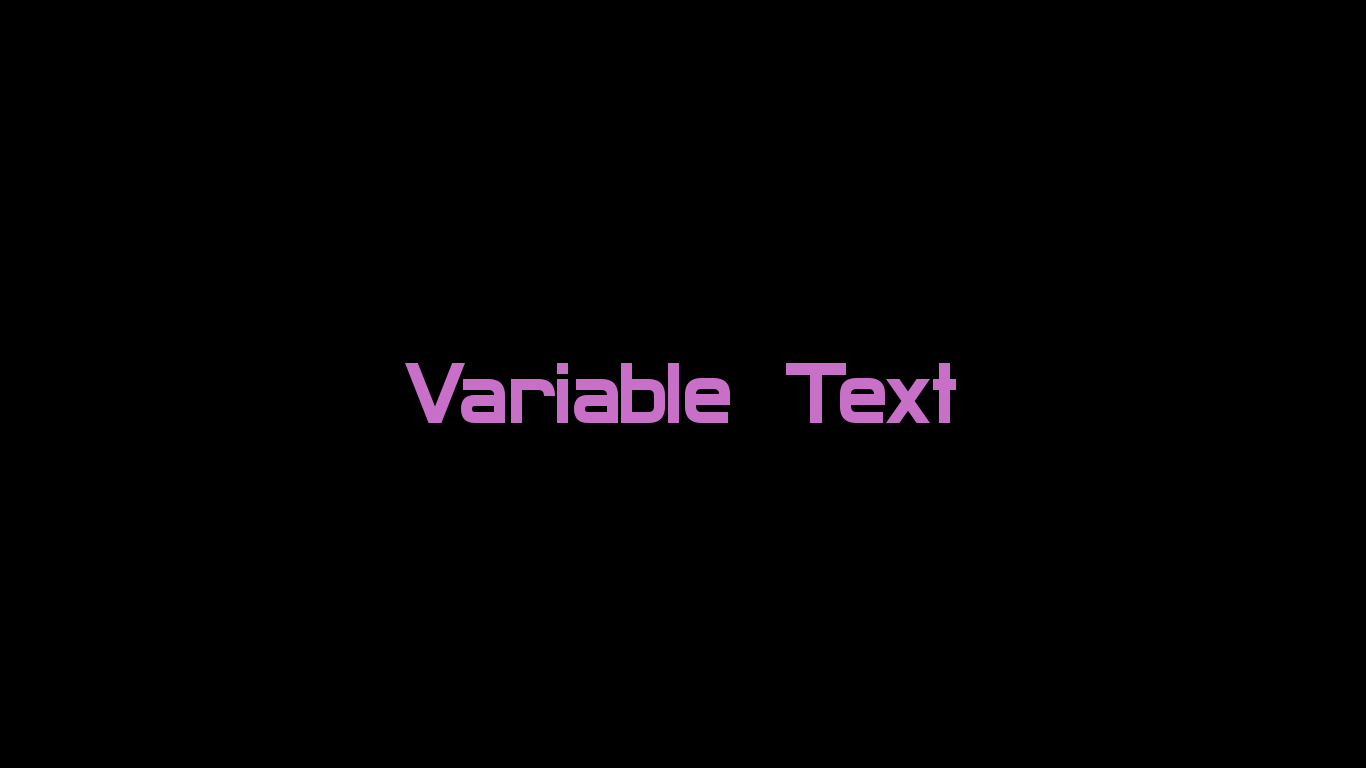
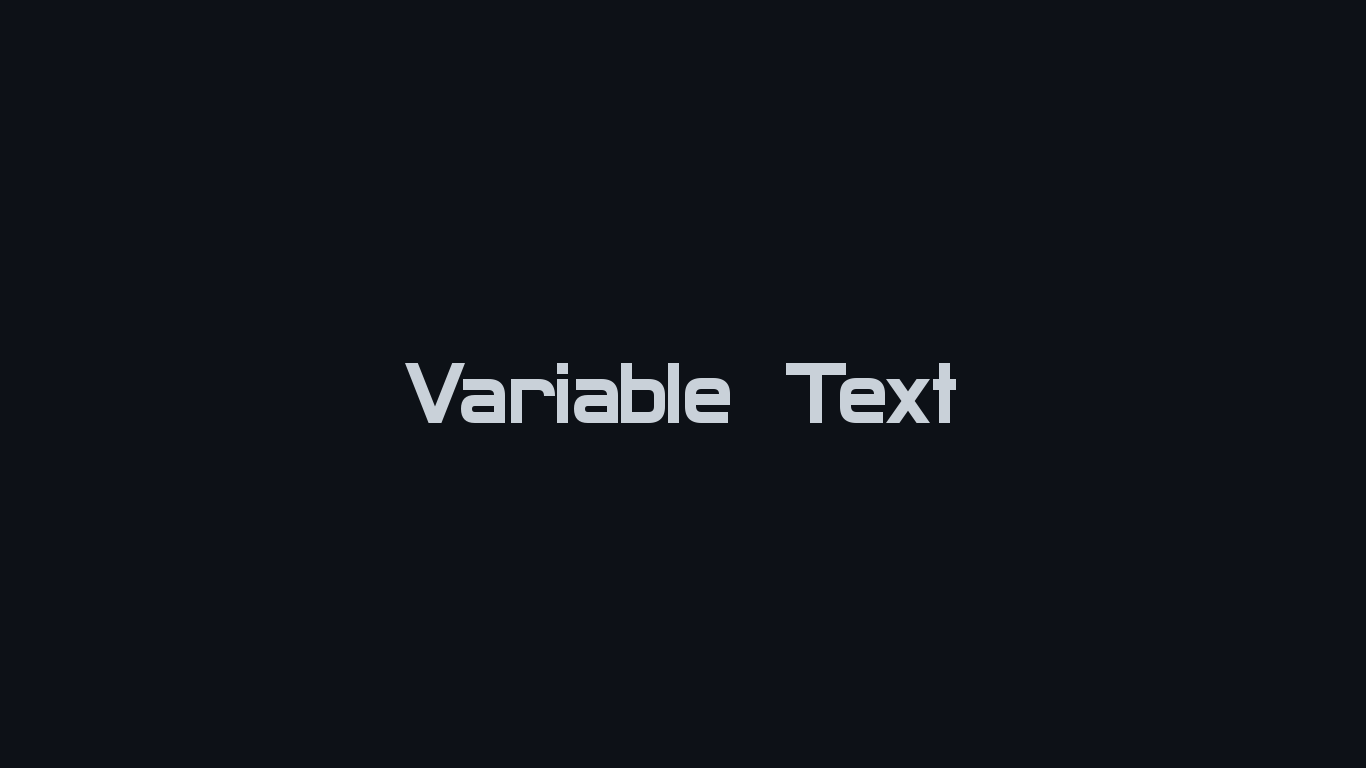
github colors

Changed region(s): [[0.2767, 0.4688, 0.5534, 0.5625], [0.5534, 0.4688, 0.7072, 0.5625]]

diff --git a/title_text.py b/title_text.py
@@ -1,6 +1,6 @@
 from PIL import Image, ImageDraw, ImageFont
 
-img = Image.new('RGB', (1366, 768), color = 'black')
+img = Image.new('RGB', (1366, 768), color = (13, 17, 23))
 
 fnt = ImageFont.truetype('Archangelsk.ttf', 100)
 text = 'Variable Text'
@@ -11,6 +11,6 @@ x = (1366 - textwidth) / 2
 y = (768 - textheight) / 2
 
 gradient = [(0, 0, 255), (255, 0, 255)]
-d.text((x, y), text, font=fnt, fill=(200, 111, 200))
+d.text((x, y), text, font=fnt, fill=(201, 209, 217))
 
 img.save('image.png')
